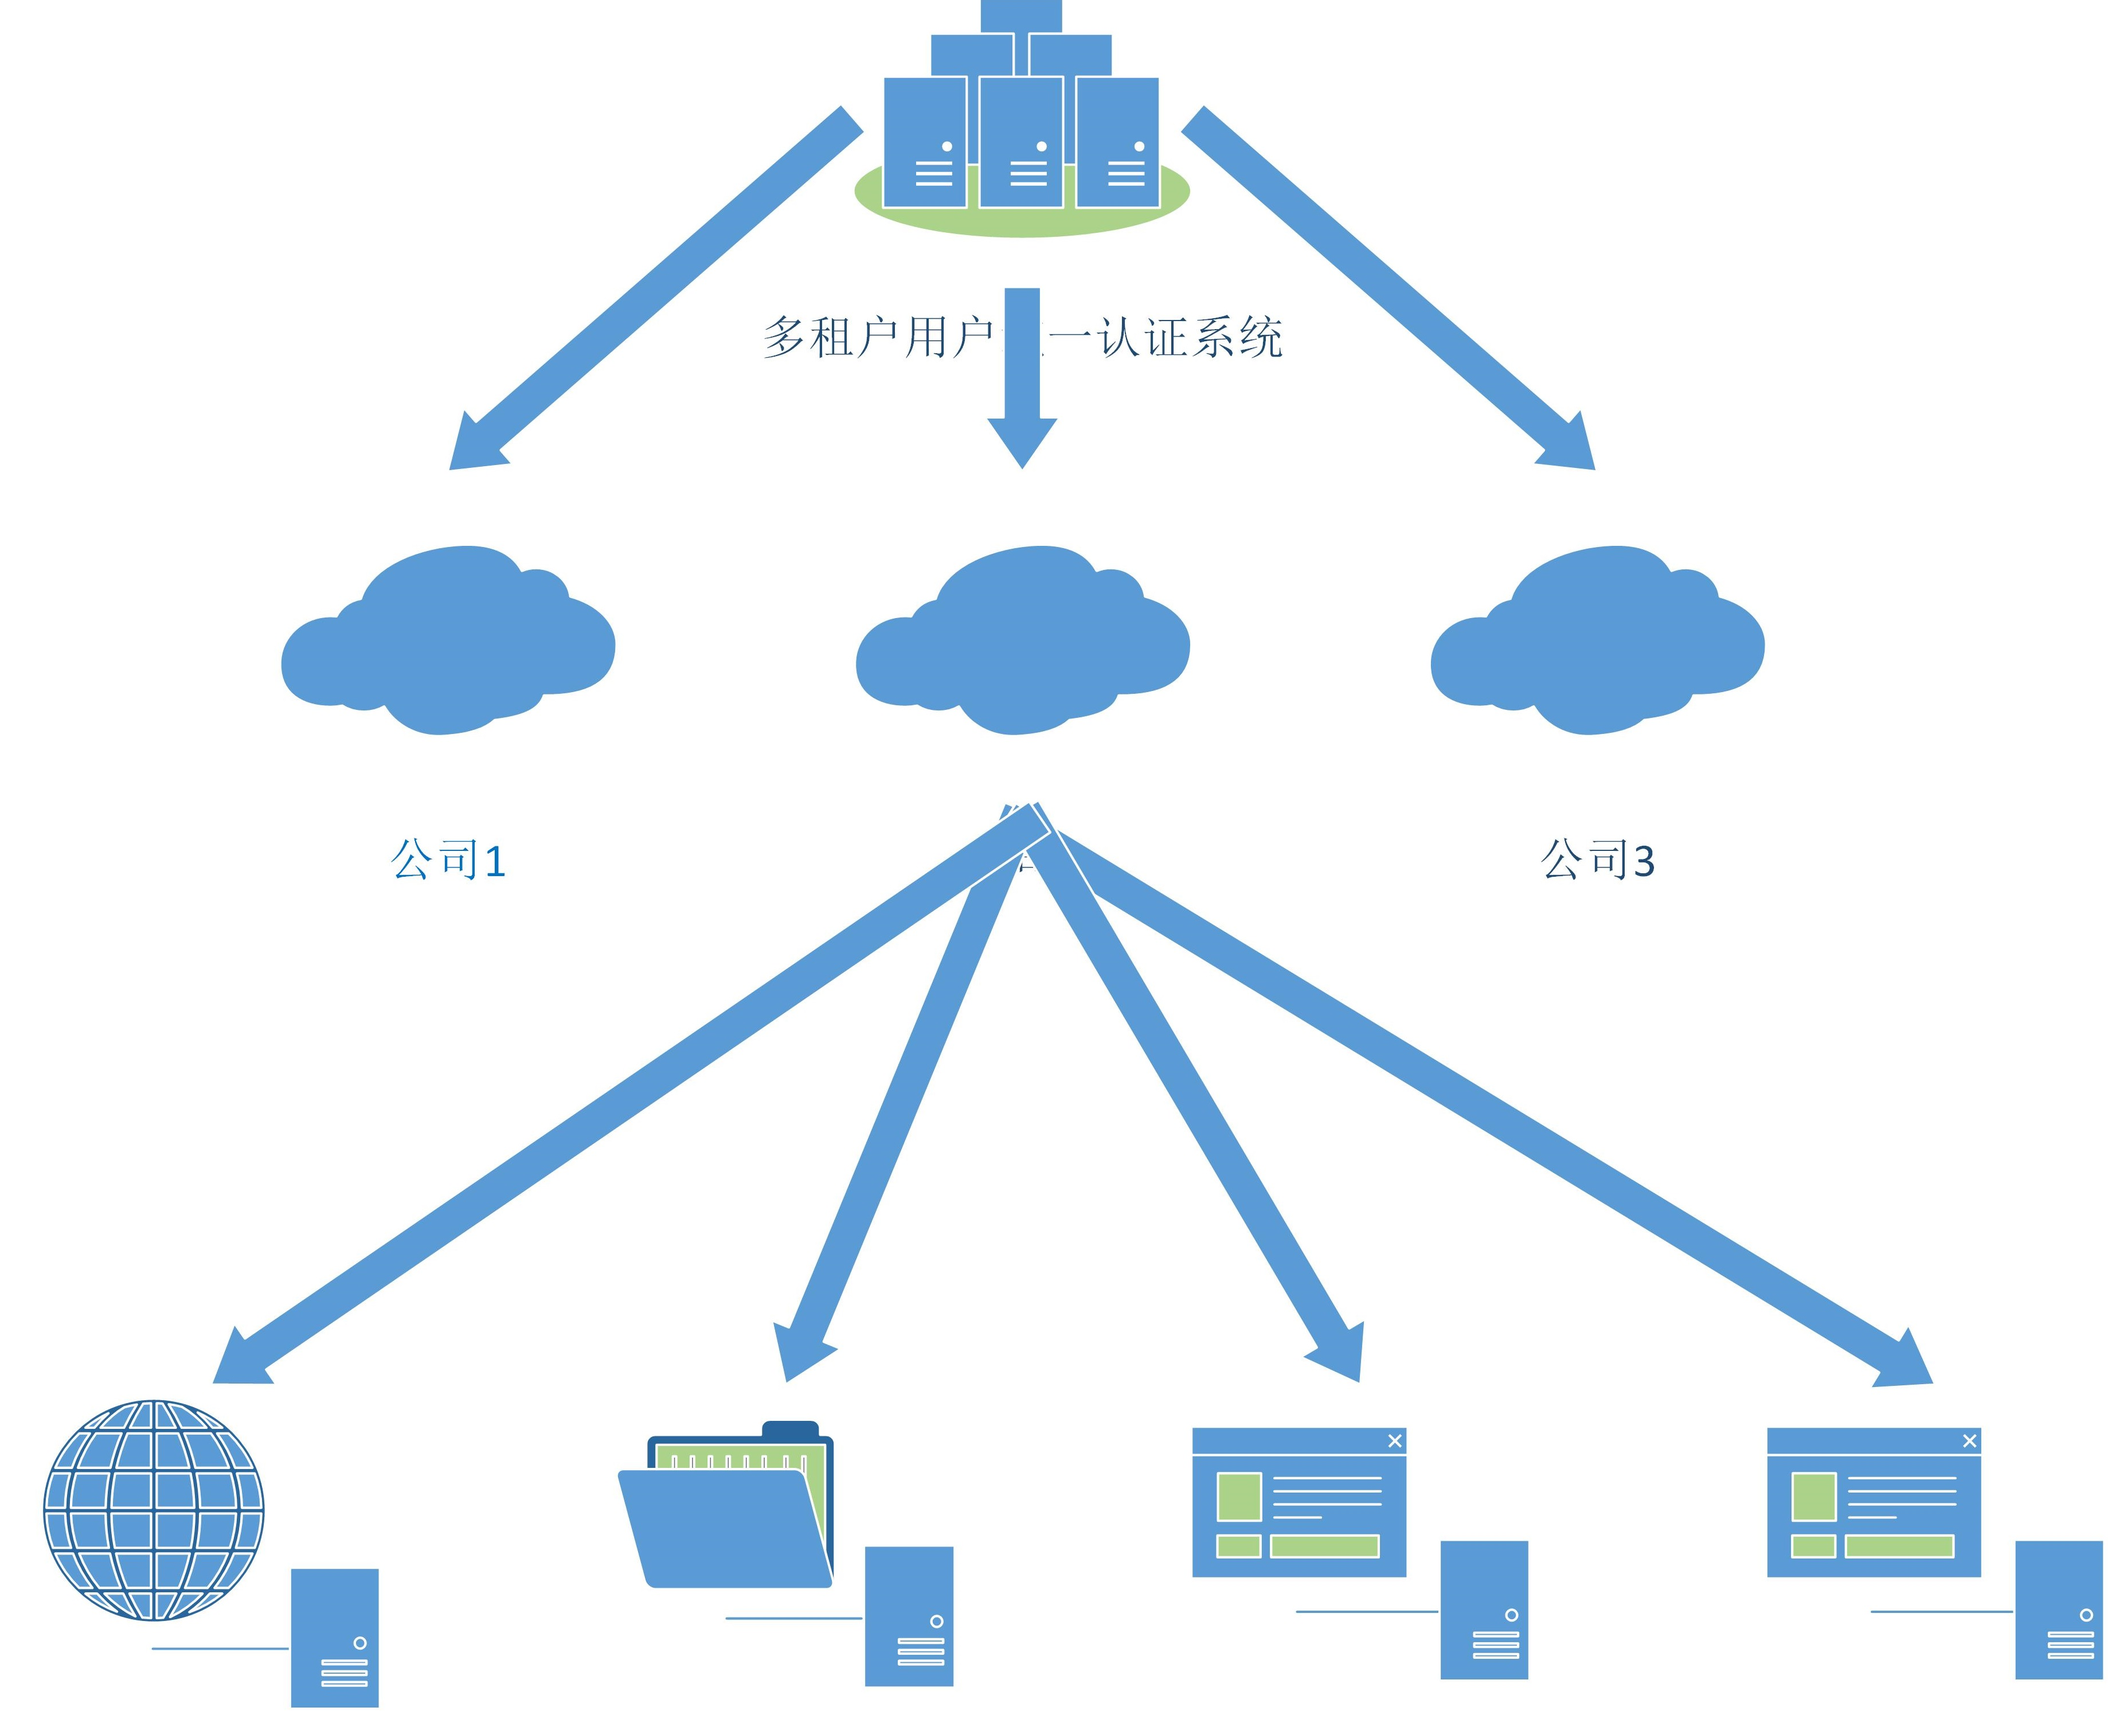
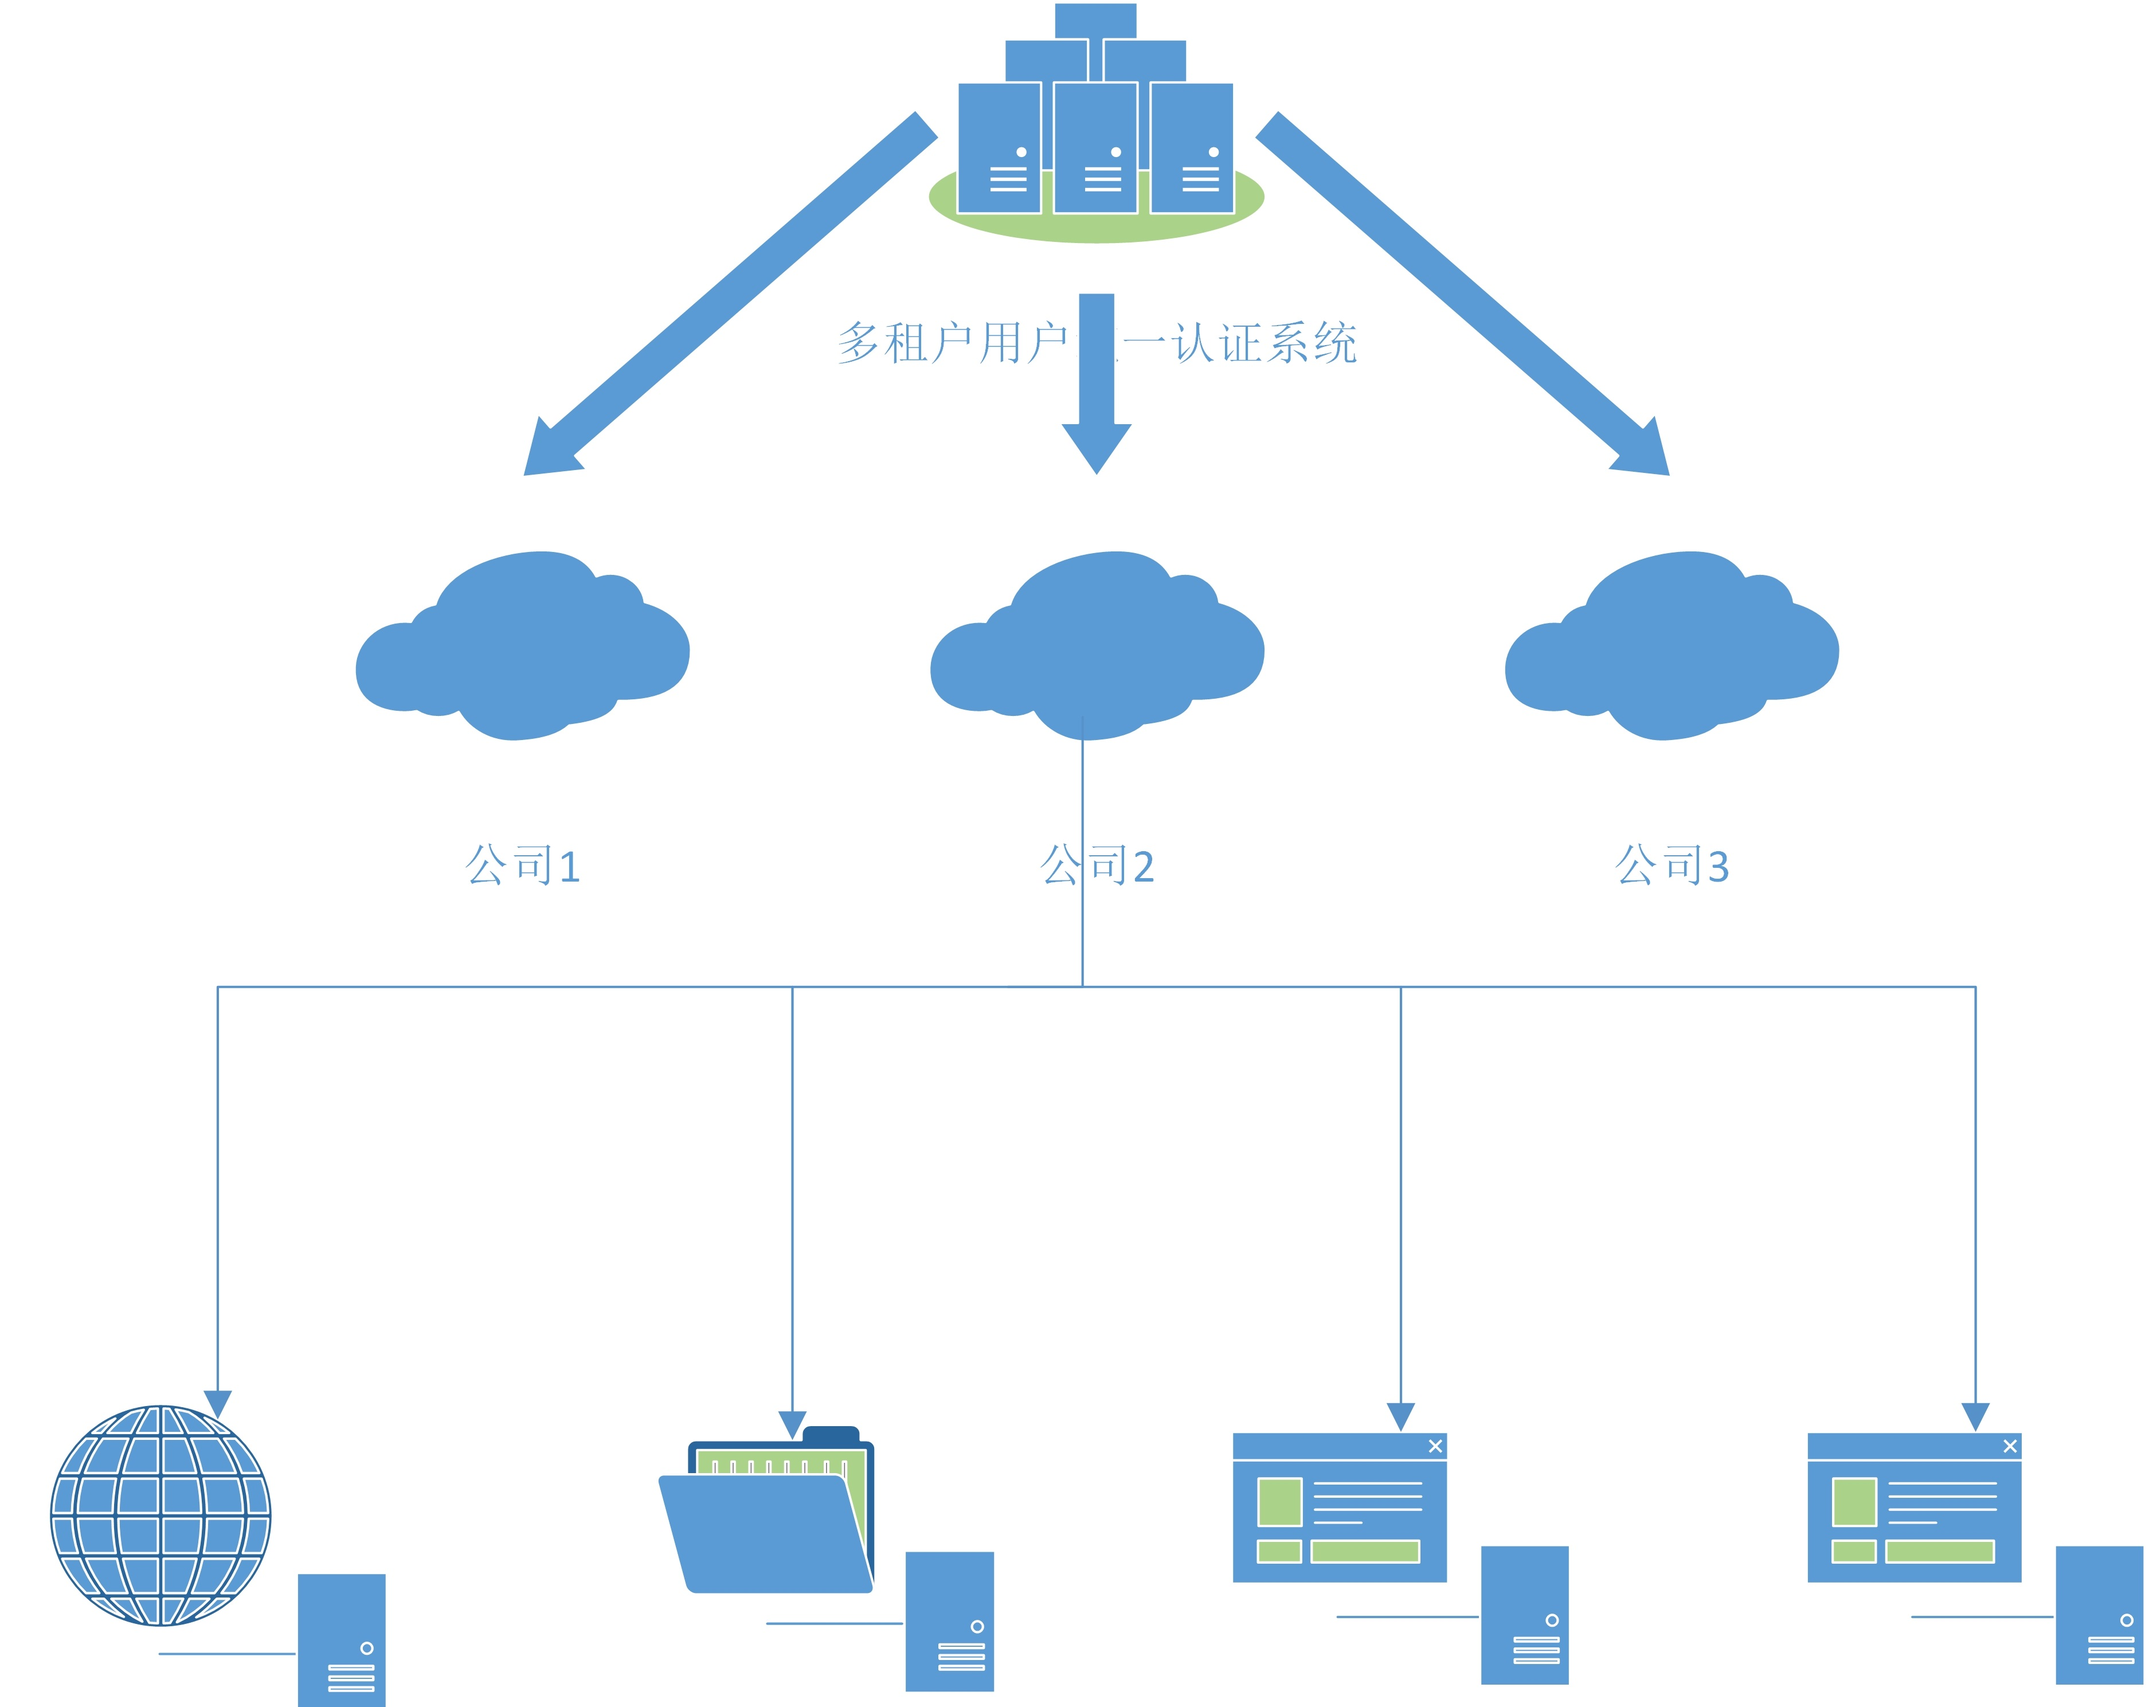
更新设计模型图
更新设计模型图

diff --git a/README.md b/README.md
@@ -10,7 +10,7 @@
 
 但是此时每个公司仍旧需要一个独立的用户管理系统。
 
-而此项目将不同公司间的SSO服务器进行 **统一管理** 。
+而此项目将不同公司间的IDP服务器进行 **统一管理** 。
 
 提供给每个公司一个 **虚拟** 的IDP服务器。
 
@@ -22,7 +22,7 @@
 
 ### 模型图
 
-![模型图](http://ww1.sinaimg.cn/large/a74ecc4cjw1e3qn9ocnqij.jpg "设计模型图")
+![模型图](http://ww4.sinaimg.cn/large/bfadf3bejw1e3r7ydueuuj.jpg "设计模型图")
 
 ## LDAP
 
